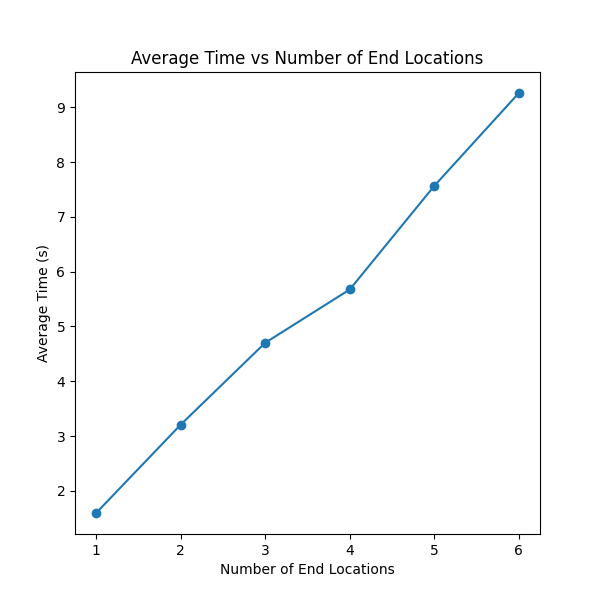
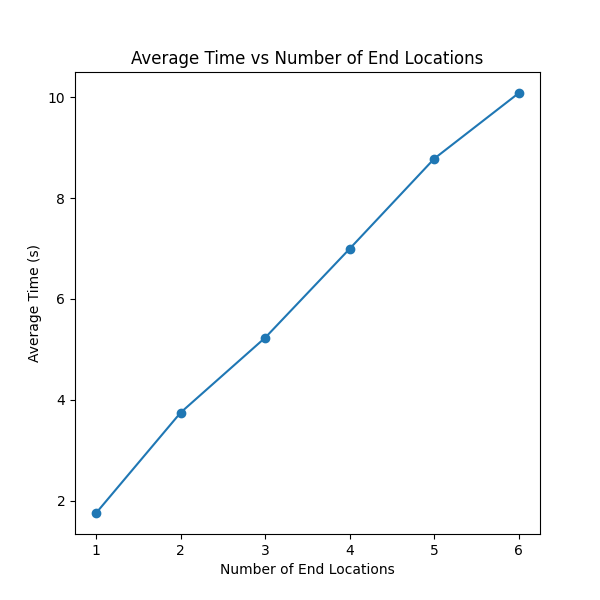
experiments

diff --git a/server/measure_time.py b/server/measure_time.py
@@ -17,7 +17,8 @@ LOCATIONS = [
     "Otwock",
     "Grodzisk Mazowiecki",
     "Warszawa Rembertów",
-    "Warszawa Ursus Niedźwiadek"
+
+
 ]
 
 TIME_SLOTS = [
@@ -36,7 +37,7 @@ def test_locations():
     print("Testing varying number of end locations")
     times: list[list[float]] = []
     end_locations_count = 1
-    while end_locations_count < len(LOCATIONS) - 1:
+    while end_locations_count < len(LOCATIONS):
         print(f"End locations count: {end_locations_count}")
         times.append([])
         i = 0
@@ -68,7 +69,7 @@ def test_time_slots():
         for start_location in LOCATIONS:
             print(f"{j + 1}/{len(LOCATIONS)}", end="\r")
             j += 1
-            end_locations = random.sample([loc for loc in LOCATIONS if loc != start_location], 1)
+            end_locations = [[loc for loc in LOCATIONS if loc != start_location][0]]
             start = time()
             find_shortest_paths(
                 start_location=start_location,
@@ -84,22 +85,22 @@ def test_time_slots():
 
 if __name__ == "__main__":
     print("Starting Dijkstra tests")
-    location_times = test_locations()
-    pprint(location_times)
+    # location_times = test_locations()
+    # pprint(location_times)
     time_slot_times = test_time_slots()
     pprint(time_slot_times)
 
-    loc_avgs = [sum(t) / len(t) for t in location_times]
+    # loc_avgs = [sum(t) / len(t) for t in location_times]
     time_avgs = [sum(t) / len(t) for t in time_slot_times]
 
-    plt.figure(figsize=(6, 6))
-    plt.plot([i + 1 for i in range(len(loc_avgs))], loc_avgs, marker='o')
-    plt.title("Average Time vs Number of End Locations")
-    plt.xlabel("Number of End Locations")
-    plt.ylabel("Average Time (s)")
-    plt.savefig("location_times.png")
+    # plt.figure(figsize=(6, 6))
+    # plt.plot([i + 1 for i in range(len(loc_avgs))], loc_avgs, marker='o')
+    # plt.title("Average Time vs Number of End Locations")
+    # plt.xlabel("Number of End Locations")
+    # plt.ylabel("Average Time (s)")
+    # plt.savefig("location_times.png")
 
-    plt.clf()
+    # plt.clf()
 
     plt.figure(figsize=(6, 6))
     plt.plot([(i + 1) * 15 for i in range(len(time_avgs))], time_avgs, marker='o')
